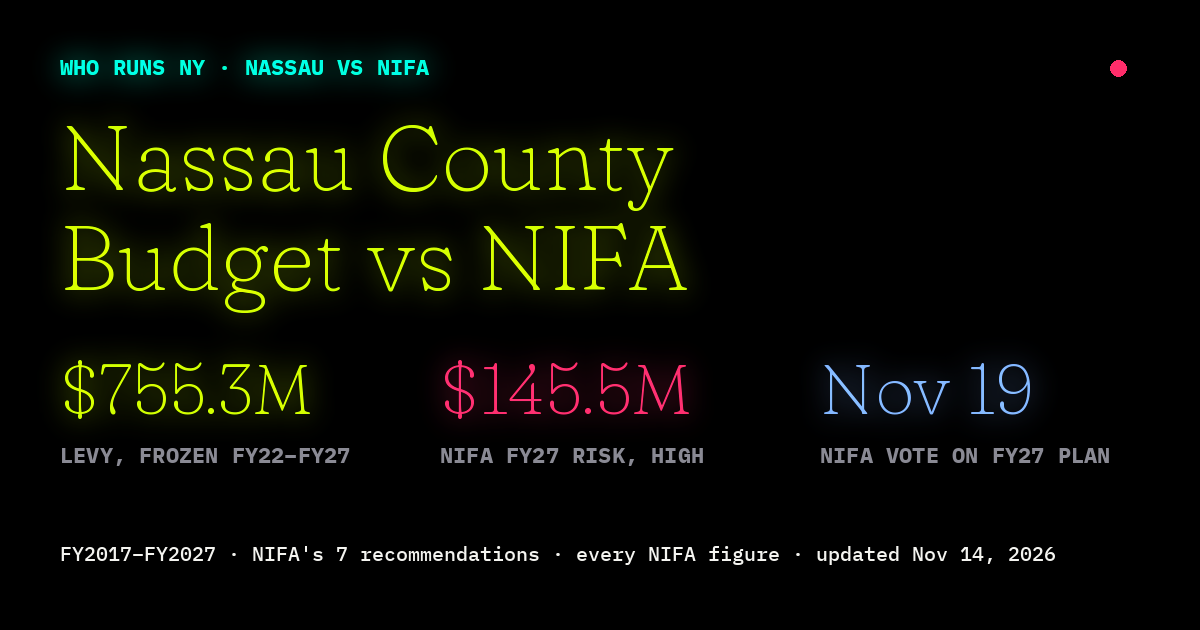
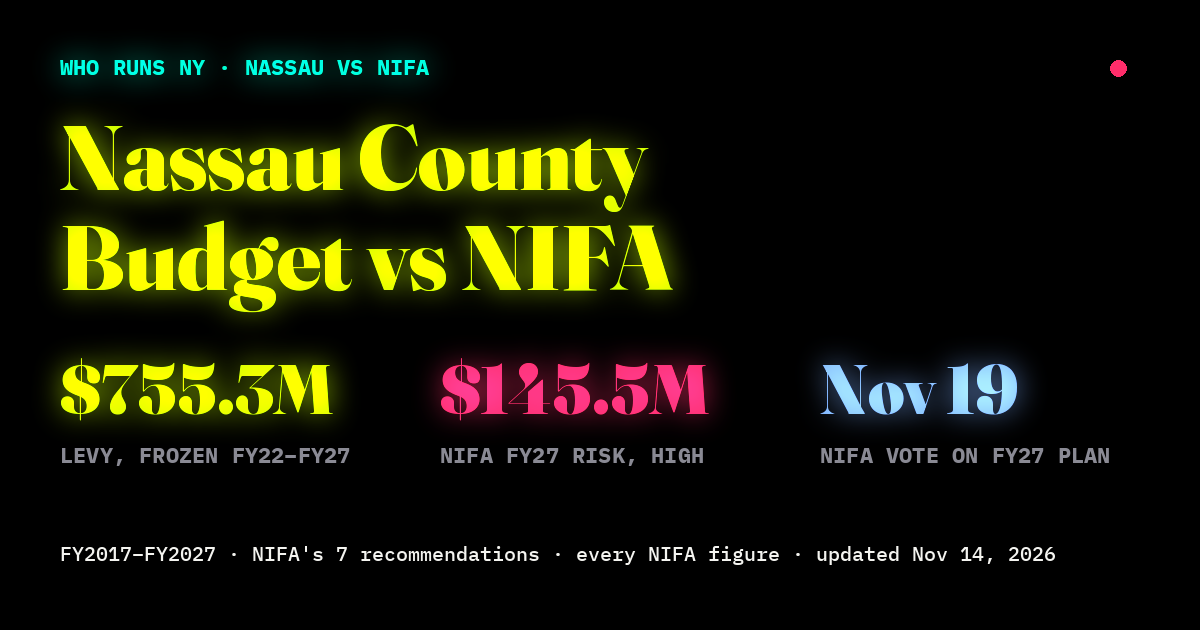
Heavier Fraunces in the OG image

diff --git a/scripts/og.py b/scripts/og.py
@@ -2,7 +2,7 @@ from PIL import Image, ImageDraw, ImageFont, ImageFilter
 G="/usr/share/fonts/truetype/sand-box/google/"
 def fr(sz):
     f=ImageFont.truetype(G+"Fraunces/Fraunces-VariableFont_SOFT,WONK,opsz,wght.ttf",sz)
-    try: f.set_variation_by_axes([0,0,144,900])
+    try: f.set_variation_by_axes([144,900,0,0])
     except Exception:
         try: f.set_variation_by_name("Black")
         except Exception: pass
